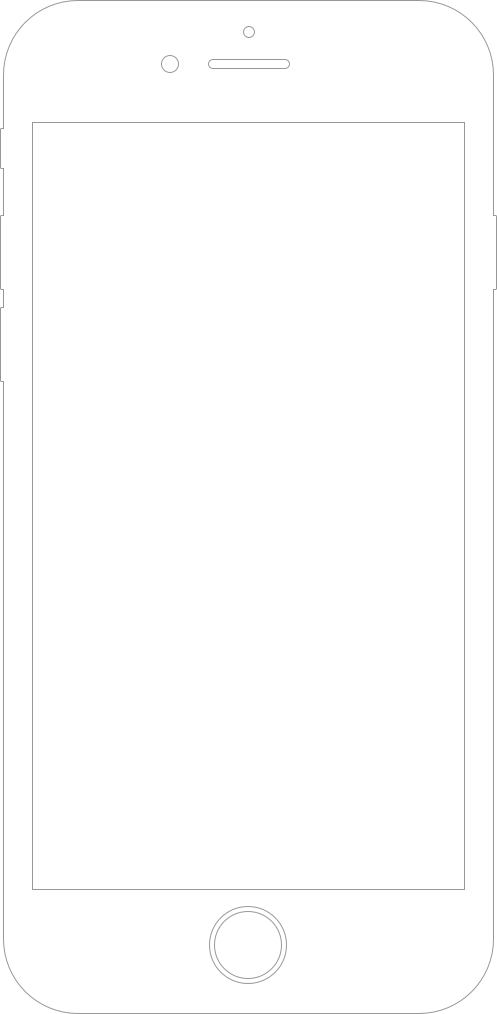
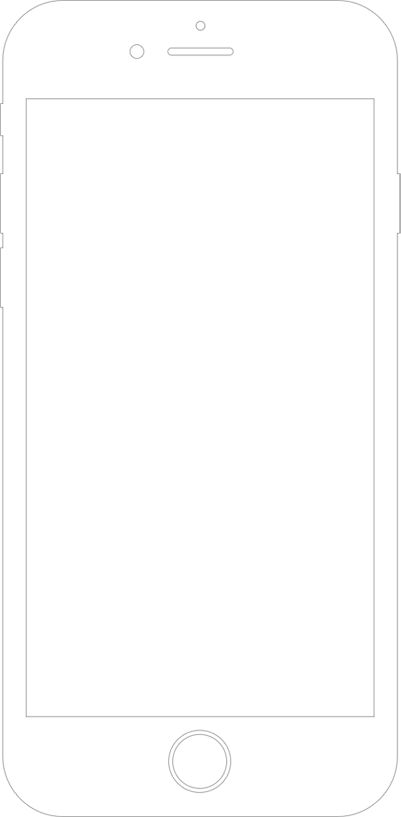
The final commit today.

diff --git a/index.html b/index.html
@@ -20,12 +20,15 @@
     <link rel="icon" type="image/png" sizes="96×96" href="https://webdemo.myscript.com/assets/img/demo/WebDemoIcon-Shape_96x96.png">
     <link rel="apple-touch-icon" type="image/png" sizes="96×96" href="https://webdemo.myscript.com/assets/img/demo/WebDemoIcon-Shape_96x96.png">
 
-    <title>Testing</title>
+    <title> Shape the world !!!</title>
 
     <link type="text/css" rel="stylesheet" href="./files/css.css">
     <link type="text/css" rel="stylesheet" href="./files/webdemo.css">
     <link rel="stylesheet" href="sass/styles.min.css">
-    <script type="text/javascript" src="http://code.jquery.com/jquery-latest.min.js"></script>
+    <link rel="stylesheet" href="https://maxcdn.bootstrapcdn.com/bootstrap/4.0.0-alpha.5/css/bootstrap.min.css" integrity="sha384-AysaV+vQoT3kOAXZkl02PThvDr8HYKPZhNT5h/CXfBThSRXQ6jW5DO2ekP5ViFdi" crossorigin="anonymous">
+    <script src="https://ajax.googleapis.com/ajax/libs/jquery/3.1.1/jquery.min.js" integrity="sha384-3ceskX3iaEnIogmQchP8opvBy3Mi7Ce34nWjpBIwVTHfGYWQS9jwHDVRnpKKHJg7" crossorigin="anonymous"></script>
+    <script src="https://cdnjs.cloudflare.com/ajax/libs/tether/1.3.7/js/tether.min.js" integrity="sha384-XTs3FgkjiBgo8qjEjBk0tGmf3wPrWtA6coPfQDfFEY8AnYJwjalXCiosYRBIBZX8" crossorigin="anonymous"></script>
+    <script src="https://maxcdn.bootstrapcdn.com/bootstrap/4.0.0-alpha.5/js/bootstrap.min.js" integrity="sha384-BLiI7JTZm+JWlgKa0M0kGRpJbF2J8q+qreVrKBC47e3K6BW78kGLrCkeRX6I9RoK" crossorigin="anonymous"></script>
 
     <!--Configuration file used to store identifiers and some parameters-->
     <script type="text/javascript" src="./files/configuration.js"></script>
@@ -34,6 +37,10 @@
 
     <link rel="import" href="./bower_components/iron-image/iron-image.html">
     <link rel="import" href="./bower_components/myscript-common-element/myscript-common-element.html">
+    <script>
+    function myFunction() {
+      window.location.reload();
+    }</script>
 </head>
 
 <body touch-action="none" onload="load()">
@@ -56,11 +63,11 @@
         </div>
         <header class="ooo-header">
             <a id="index-header-link" class="ooo-link-back" href="https://webdemo.myscript.com/index.html"></a>
-            <h1 class="ooo-shape">Suggested Components by Ashley</h1>
+            <h1 class="ooo-shape">Component suggestions by Ashley</h1>
             <a id="info-header-link" class="ooo-link-info" href="https://webdemo.myscript.com/views/shape.html#description"></a>
         </header>
         <!-- INFOMATION AREA  -->
-        <div class="showInfo2">
+        <div class="showInfo2 alert alert-info" role="alert">
           <ul>
             <li>Shape: <span class="js_shapeName"></span></li>
             <li>pointsX: <span class="js_pointsX"></span></li>
@@ -69,6 +76,159 @@
             <li>Height: <span class="js_shapeH"></span></li>
           </ul>
         </div>
+        <!-- js_suggestions -->
+        <div class="popover popover-right js_suggestions" style="display:none;">
+          <h3 class="popover-title">I drawed a/an...</h3>
+
+          <div class="popover-content">
+            <!--[1] js_wildRectB: 寬矩形 && H > unitH -->
+            <div class="js_wildRectB"  style="display:none;">
+              <label for="">大的寬矩形</label>
+              <div class="form-check">
+                <label class="form-check-label">
+                  <input class="form-check-input" type="radio" name="exampleRadios" id="js_wildRectB-co" value="Image" checked>
+                  Image
+                </label>
+              </div>
+              <div class="form-check">
+                <label class="form-check-label">
+                  <input class="form-check-input" type="radio" name="exampleRadios" id="exampleRadios2" value="Shape">
+                  Shape
+                </label>
+              </div>
+              <div class="form-check">
+                <label class="form-check-label">
+                  <input class="form-check-input" type="radio" name="exampleRadios" id="exampleRadios2" value="TextView">
+                  TextView
+                </label>
+              </div>
+              <div class="form-check">
+                <label class="form-check-label">
+                  <input class="form-check-input" type="radio" name="exampleRadios" id="exampleRadios2" value="TextField">
+                  TextField
+                </label>
+              </div>
+              <div class="form-check disabled">
+                <label class="form-check-label">
+                  <input class="form-check-input" type="radio" name="exampleRadios" id="exampleRadios3" value="option3" disabled>
+                  Button
+                </label>
+              </div>
+            </div>
+            <!--[2] js_wildRectS: 寬矩形 && H < unitH -->
+            <div class="js_wildRectS"  style="display:none;">
+              <label for="">小的寬矩形 </label>
+              <div class="form-check">
+                <label class="form-check-label">
+                  <input class="form-check-input" type="radio" name="exampleRadios" id="js_wildRectB-co" value="Button" checked>
+                  Button
+                </label>
+              </div>
+              <div class="form-check">
+                <label class="form-check-label">
+                  <input class="form-check-input" type="radio" name="exampleRadios" id="exampleRadios2" value="TextField">
+                  TextField
+                </label>
+              </div>
+              <div class="form-check">
+                <label class="form-check-label">
+                  <input class="form-check-input" type="radio" name="exampleRadios" id="exampleRadios2" value="Shape">
+                  Shape
+                </label>
+              </div>
+              <div class="form-check">
+                <label class="form-check-label">
+                  <input class="form-check-input" type="radio" name="exampleRadios" id="exampleRadios2" value="Image">
+                  Image
+                </label>
+              </div>
+              <div class="form-check">
+                <label class="form-check-label">
+                  <input class="form-check-input" type="radio" name="exampleRadios" id="exampleRadios2" value="TextView">
+                  TextView
+                </label>
+              </div>
+            </div>
+            <!--[3] js_tallRectB: 高矩形 && H > unitH -->
+            <div class="js_tallRectB"  style="display:none;">
+              <label for="">大的高矩形</label>
+              <div class="form-check">
+                <label class="form-check-label">
+                  <input class="form-check-input" type="radio" name="exampleRadios" id="js_wildRectB-co" value="Image" checked>
+                  Image
+                </label>
+              </div>
+              <div class="form-check">
+                <label class="form-check-label">
+                  <input class="form-check-input" type="radio" name="exampleRadios" id="exampleRadios2" value="Shape">
+                  Shape
+                </label>
+              </div>
+              <div class="form-check">
+                <label class="form-check-label">
+                  <input class="form-check-input" type="radio" name="exampleRadios" id="exampleRadios2" value="TextView">
+                  TextView
+                </label>
+              </div>
+              <div class="form-check">
+                <label class="form-check-label">
+                  <input class="form-check-input" type="radio" name="exampleRadios" id="exampleRadios2" value="TextField">
+                  TextField
+                </label>
+              </div>
+              <div class="form-check disabled">
+                <label class="form-check-label">
+                  <input class="form-check-input" type="radio" name="exampleRadios" id="exampleRadios3" value="option3" disabled>
+                  Button
+                </label>
+              </div>
+            </div>
+            <!--[4] js_tallRectS: 高矩形 && H < unitH -->
+            <div class="js_tallRectS" style="display:none;">
+              <label for="">小的高矩形</label>
+              <div class="form-check">
+                <label class="form-check-label">
+                  <input class="form-check-input" type="radio" name="exampleRadios" id="js_wildRectB-co" value="Image" checked>
+                  Image
+                </label>
+              </div>
+              <div class="form-check">
+                <label class="form-check-label">
+                  <input class="form-check-input" type="radio" name="exampleRadios" id="exampleRadios2" value="Shape">
+                  Shape
+                </label>
+              </div>
+              <div class="form-check">
+                <label class="form-check-label">
+                  <input class="form-check-input" type="radio" name="exampleRadios" id="exampleRadios3" value="option3" >
+                  Button
+                </label>
+              <div class="form-check">
+                <label class="form-check-label">
+                  <input class="form-check-input" type="radio" name="exampleRadios" id="exampleRadios2" value="TextView">
+                  TextView
+                </label>
+              </div>
+              <div class="form-check">
+                <label class="form-check-label">
+                  <input class="form-check-input" type="radio" name="exampleRadios" id="exampleRadios2" value="TextField">
+                  TextField
+                </label>
+              </div>
+
+              </div>
+            </div>
+
+            <button type="button" class="btn btn-primary btn-block js_confirmType" >Confirm</button>
+          </div>
+        </div>
+
+        <!-- Shape identification -->
+        <div class="identification">
+
+        </div>
+
+
 
 
         <!-- end of INFOMATION AREA  -->
@@ -142,7 +302,7 @@
         <div class="loader"></div>
     </div>
 
-    <script type="text/javascript" src="./files/js.js"></script>
+    <script type="text/javascript" src="files/js.js"></script>
 
     <iron-a11y-announcer>
         <div class="style-scope iron-a11y-announcer" aria-live="polite"></div>

diff --git a/Ashley.js b/Ashley.js
@@ -1,18 +1,25 @@
+var idtagX;
+var idtagY;
 window.Ashley = {
   responseCallback : function (responseObject){
     // Get shape information
     console.log(responseObject)
 
+    // Get the length of segments[]
+    var segmentsLength = responseObject.result.segments.length - 1 ;
+    console.log('segmentsLength =' + segmentsLength)
     // Print basic shape information
-    var shapeName = responseObject.result.segments[0].candidates[0].label;
-    $(".js_shapeName").text(shapeName);
-
-    // 取得 PosX and PosY array
+    var shapeName = responseObject.result.segments[segmentsLength].candidates[0].label;
+    var screenH = 600;
+    var unitH = screenH/10;
     var pointsX = [];
     var pointsY = [];
+
+    $(".js_shapeName").text(shapeName);
+    // 取得 PosX and PosY array
     for ( i = 0 ; i < 4; i++){
-        var pointX = Math.floor(responseObject.result.segments[0].candidates[0].primitives[i].firstPoint.x);
-        var pointY = Math.floor(responseObject.result.segments[0].candidates[0].primitives[i].firstPoint.y);
+        var pointX = Math.floor(responseObject.result.segments[segmentsLength].candidates[0].primitives[i].firstPoint.x);
+        var pointY = Math.floor(responseObject.result.segments[segmentsLength].candidates[0].primitives[i].firstPoint.y);
         pointsX[i] = pointX;
         pointsY[i] = pointY;
         pointsX.sort();
@@ -26,16 +33,61 @@ window.Ashley = {
       return arr.indexOf(element)=== index;
     });
 
+
+    // show suggestions
+    var rectW = pointsX[1]-pointsX[0] ;
+    var rectH = pointsY[1]-pointsY[0] ;
+    var popSuggestionsX = pointsX[1] + 10;
+    var popSuggestionsY ;
+
+
+    // Recognizing the shape
+    recognizing();
+    function recognizing(){
+
+      if(rectW > rectH && rectH > unitH){
+        $('.js_wildRectB').css({"display" : "initial"});
+      }else if (rectW > rectH && rectH < unitH) {
+        $('.js_wildRectS').css({"display" : "initial"});
+      }else if (rectW < rectH && rectH > unitH) {
+        $('.js_tallRectB').css({"display" : "initial"});
+      }else if (rectW < rectH && rectH < unitH)  {
+        $('.js_tallRectS').css({"display" : "initial"});
+      }else{
+        alert('A square.');
+      }
+    }
+    // reture and set pop posY
+    popSuggestionsY = pointsY[1] - $(".js_suggestions").height()/2 - rectH/2;
+    $(".js_suggestions").css({"display":"initial","left": popSuggestionsX + "px","top": popSuggestionsY + "px"});
+
     //show information
     $(".js_pointsX").text(pointsX);
     $(".js_pointsY").text(pointsY);
-    $(".js_shapeW").text(pointsX[1]-pointsX[0]);
-    $(".js_shapeH").text(pointsY[1]-pointsY[0]);
-
-
+    $(".js_shapeW").text(rectW);
+    $(".js_shapeH").text(rectH);
+    idtagX = pointsX[0];
+    idtagY = pointsY[0];
+    // console.log('$(".js_suggestions").height()/2 = ' + $(".js_suggestions").height()/2 )
 
   },
   requestCallback : function (requestObject){
     console.log(requestObject)
   }
 }
+
+
+//====================== leave a label ==========================
+$(document).on("click",".js_confirmType",function(){
+    // close suggestions
+    $('.popover-content > div').css({"display" : "none"});
+    $('.js_suggestions').css({"display":"none"});
+    idtagX += 10;
+    idtagY += 10;
+    // add identification
+    $(".identification").append("<span style='left:" + idtagX + "px;top:"+ idtagY +"px;'>" + "Default" + "</span>");
+    console.log('idtagX = ' + idtagX + ',' + 'idtagY = ' + idtagY);
+    idtagX = 0;
+    idtagY = 0;
+
+});

diff --git a/sass/styles.min.css b/sass/styles.min.css
@@ -1,1 +1,1 @@
-h1{color:#b00000}h1 span{display:block;text-align:center;color:red}.buttons.myscript-common-element{position:absolute;z-index:2;margin-left:-69px;bottom:-50px;left:50%}.ooo-footer{display:none}.ooo-section{background-image:url("../img/iphoneWireframe.png");background-position:center;background-size:400px;background-repeat:no-repeat}.showInfo2{display:block;padding:20px;position:absolute;left:50px;top:100px;background-color:white;color:#bdc3c7}.showInfo2 ul{list-style:none;margin:0px;padding:0px}.showInfo2 ul li{margin-bottom:10px}
+h1{color:#b00000}h1 span{display:block;text-align:center;color:red}.ooo-header{position:absolute;width:100%}.buttons.myscript-common-element{position:absolute;z-index:2;margin-left:-69px;bottom:-50px;left:50%}.ooo-footer{display:none}.ooo-section{background-image:url("../img/iphoneWireframe.png");background-position:center;background-size:389px;background-repeat:no-repeat}.showInfo2{display:block;padding:20px;position:absolute;z-index:100;left:50px;top:100px;min-width:200px}.showInfo2 ul{list-style:none;margin:0px;padding:0px}.showInfo2 ul li{margin-bottom:10px}.js_suggestions{min-width:200px}.identification{width:100%;height:100%;z-index:-100;position:absolute}.identification span{position:absolute;color:#bdc3c7}

diff --git a/sass/styles.scss b/sass/styles.scss
@@ -12,7 +12,10 @@ h1{ color: #b00000;
 		color: red;
 	}
 }
-
+.ooo-header{
+	position: absolute;
+	width: 100%;
+}
 .buttons.myscript-common-element {
     position: absolute;
     z-index: 2;
@@ -26,7 +29,7 @@ h1{ color: #b00000;
 .ooo-section{
 	background-image:url('../img/iphoneWireframe.png');
 	background-position: center;
-	background-size: 400px;
+	background-size: 389px;
 	background-repeat: no-repeat;
 }
 
@@ -37,18 +40,32 @@ h1{ color: #b00000;
 	display: block;
 	padding:20px;
 	position: absolute;
+	z-index: 100;
 	left: 50px;
 	top:100px;
-	background-color: white;
-	// border: 1px solid $lightGrey;
-	color: $lightGrey;
+	min-width: 200px;
+
 	ul{
 		list-style: none;
 		margin: 0px;
 		padding: 0px;
 		li{
 			margin-bottom: 10px;
+
 		}
 
+	}
+}
+.js_suggestions{
+	min-width: 200px;
+}
+.identification{
+	width: 100%;
+	height: 100%;
+	z-index: -100;
+	position: absolute;
+	span{
+		position: absolute;
+		color: $lightGrey;
 	}
 }
